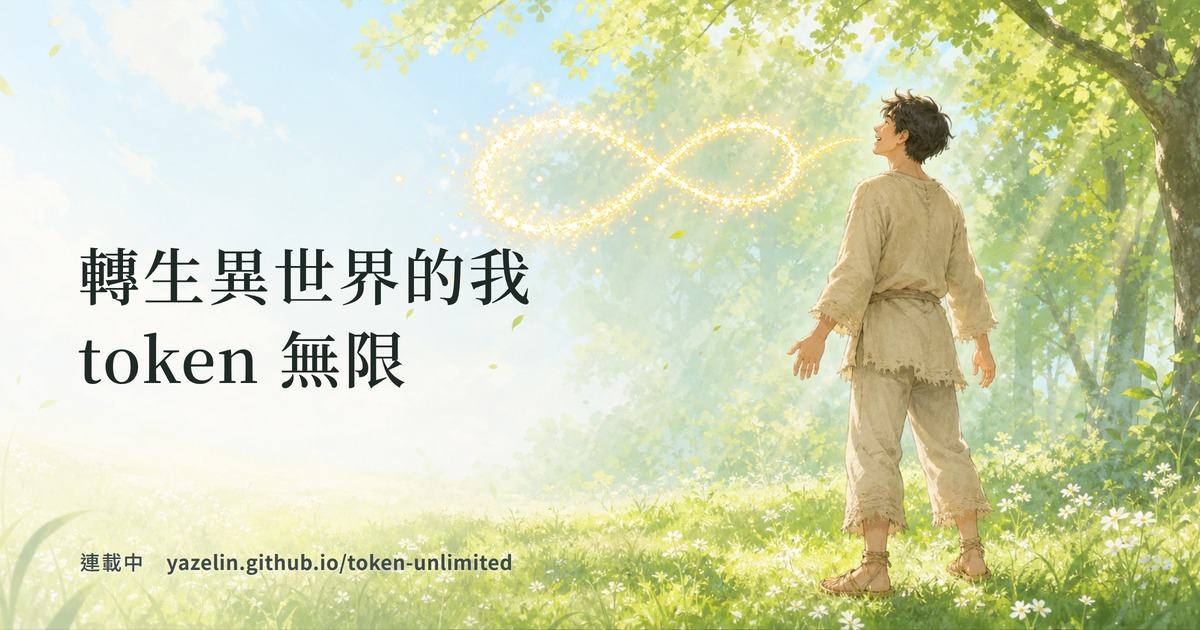
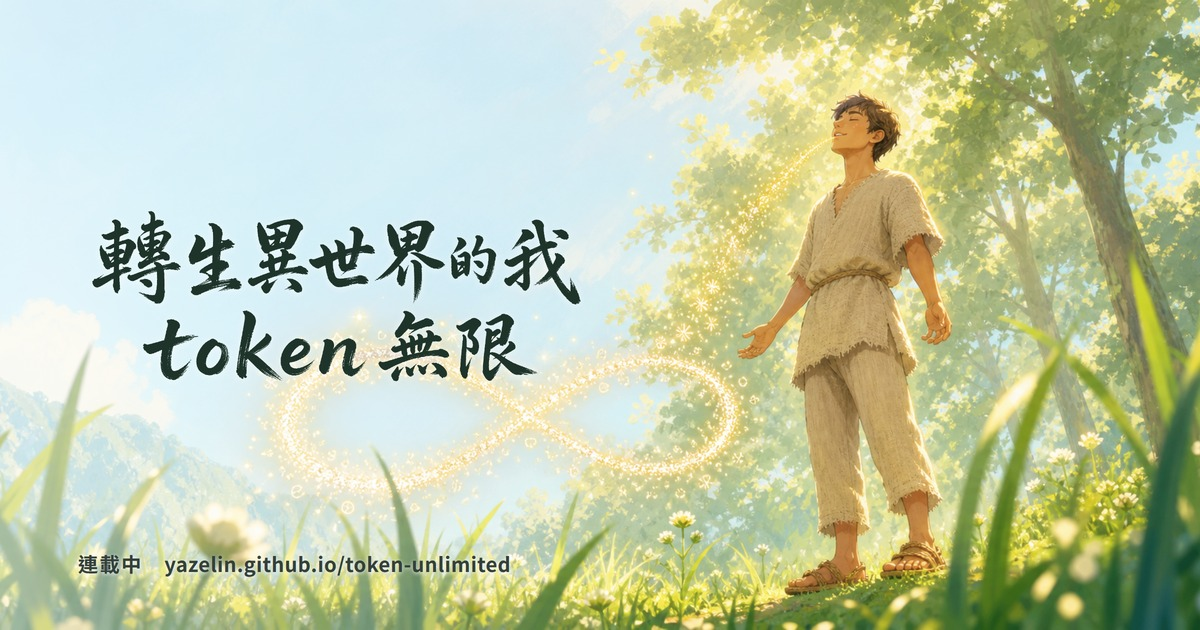
封面定版（草間仰角＋毛筆標題），sw CACHE → tu-v5

diff --git a/sw.js b/sw.js
@@ -2,7 +2,7 @@
    全量 precache（app 殼＋所有章節與資產）→ 首訪即可離線。
    HTML＝network-first（線上拿最新、離線吃快取）；其他資源＝cache-first。
    改內容要更新：bump 下面的 CACHE 版本號。 */
-const CACHE = 'tu-v4';
+const CACHE = 'tu-v5';
 const ASSETS = [
   './', './index.html', './home.html',
   './序章-閱讀版.html', './第一章-閱讀版.html',
